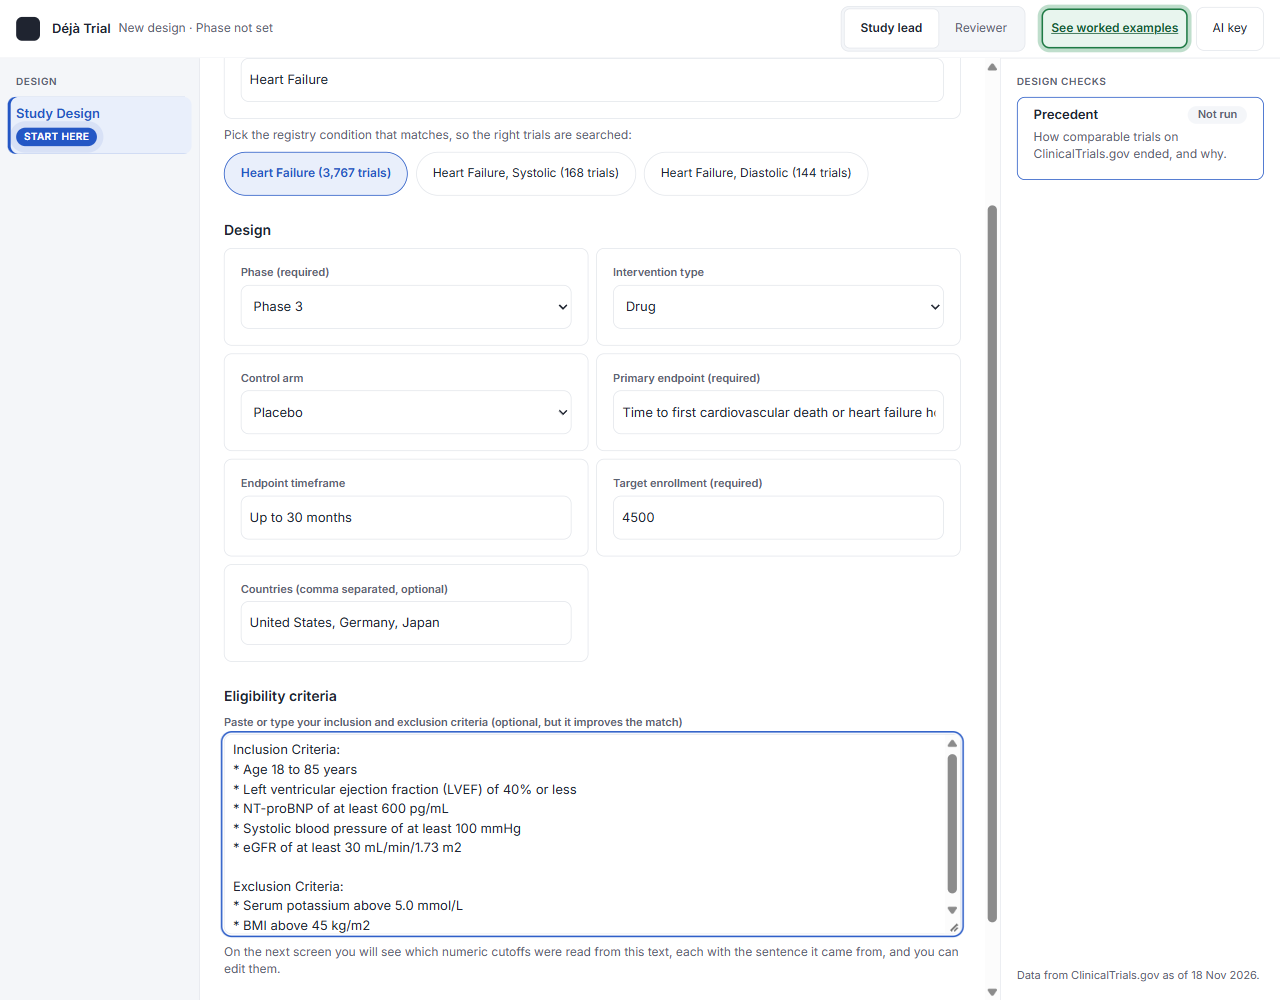
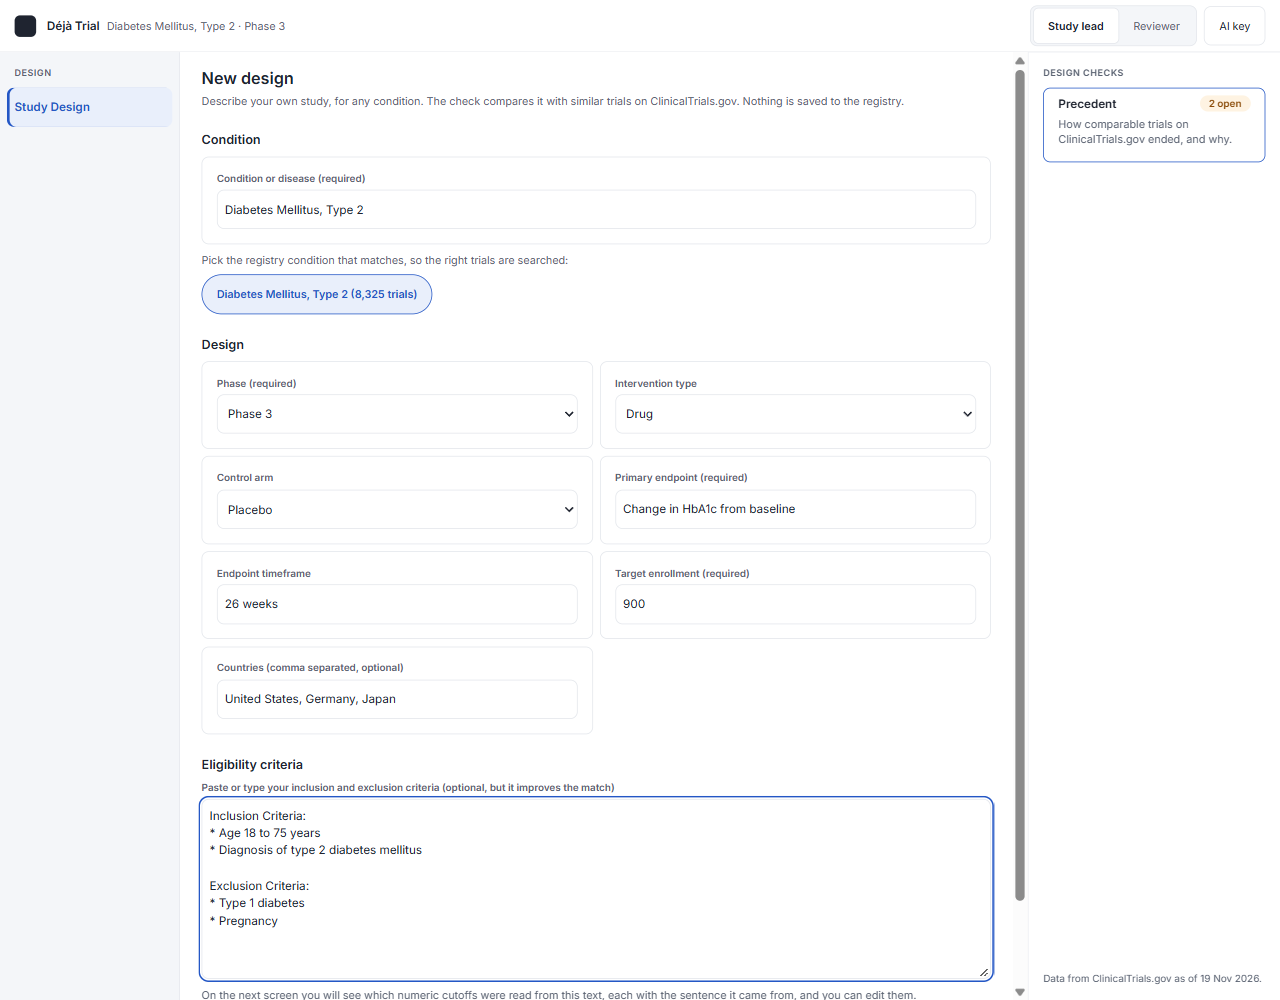
Retake README screenshots: full result, no developer message
New run on a type 2 diabetes draft whose criteria the free reader can fully
check (age), so the results show two flags and no failed population checks.
The confirm screen shows the user-facing AI-key message. Captions updated.

diff --git a/README.md b/README.md
@@ -5,19 +5,19 @@ Paste a draft trial design. Get the closest past trials from ClinicalTrials.gov,
 **Live demo:** https://ct-precedent-agent.vercel.app (no key needed; AI reading is off unless you add your own key under "AI key").
 
 ## What it looks like
-Real run on the live site with an invented heart-failure draft (no confidential data). The AI reader was off, so the population checks show as "Not checked" instead of a guess.
+A real run against the full ClinicalTrials.gov registry (data as of 19 Nov 2026), using an invented type 2 diabetes draft with no confidential data. The AI reader was off, so cutoffs are read by simple rules.
 
 **1. Describe the design** (any condition, with a registry condition lookup)
 
-<img src="docs/screens/01_new_design.png" alt="New design form: condition, phase, endpoint, enrollment, countries and eligibility criteria" width="720">
+<img src="docs/screens/01_new_design.png" alt="New design form: condition, phase, intervention type, control arm, endpoint, enrollment, countries and eligibility criteria" width="720">
 
 **2. Confirm the cutoffs read from the criteria**, each with the sentence it came from. Nothing runs until you confirm.
 
-<img src="docs/screens/02_confirm_cutoffs.png" alt="Seven eligibility cutoffs, each shown with its source sentence and an Edit link" width="720">
+<img src="docs/screens/02_confirm_cutoffs.png" alt="Confirm screen: the design, two age cutoffs each shown with its source sentence, and the design elements to check" width="720">
 
-**3. Results:** 30 comparable trials and a flag that shows its count (n) and links to the trials, plus an explicit "Not checked" list.
+**3. Results:** 30 comparable trials and two flags, each showing its count (n) with a link to the trials. Anything the check could not do is listed under "Not checked" and never guessed.
 
-<img src="docs/screens/03_results_flags.png" alt="Results: 30 comparable trials, a Sites flag with n = 178, and a Not checked list" width="720">
+<img src="docs/screens/03_results_flags.png" alt="Results: 30 comparable trials, a Sites flag with n = 232, an Endpoints flag with n = 28, and a Not checked note" width="720">
 
 ## Run it locally (about 2 minutes)
 
